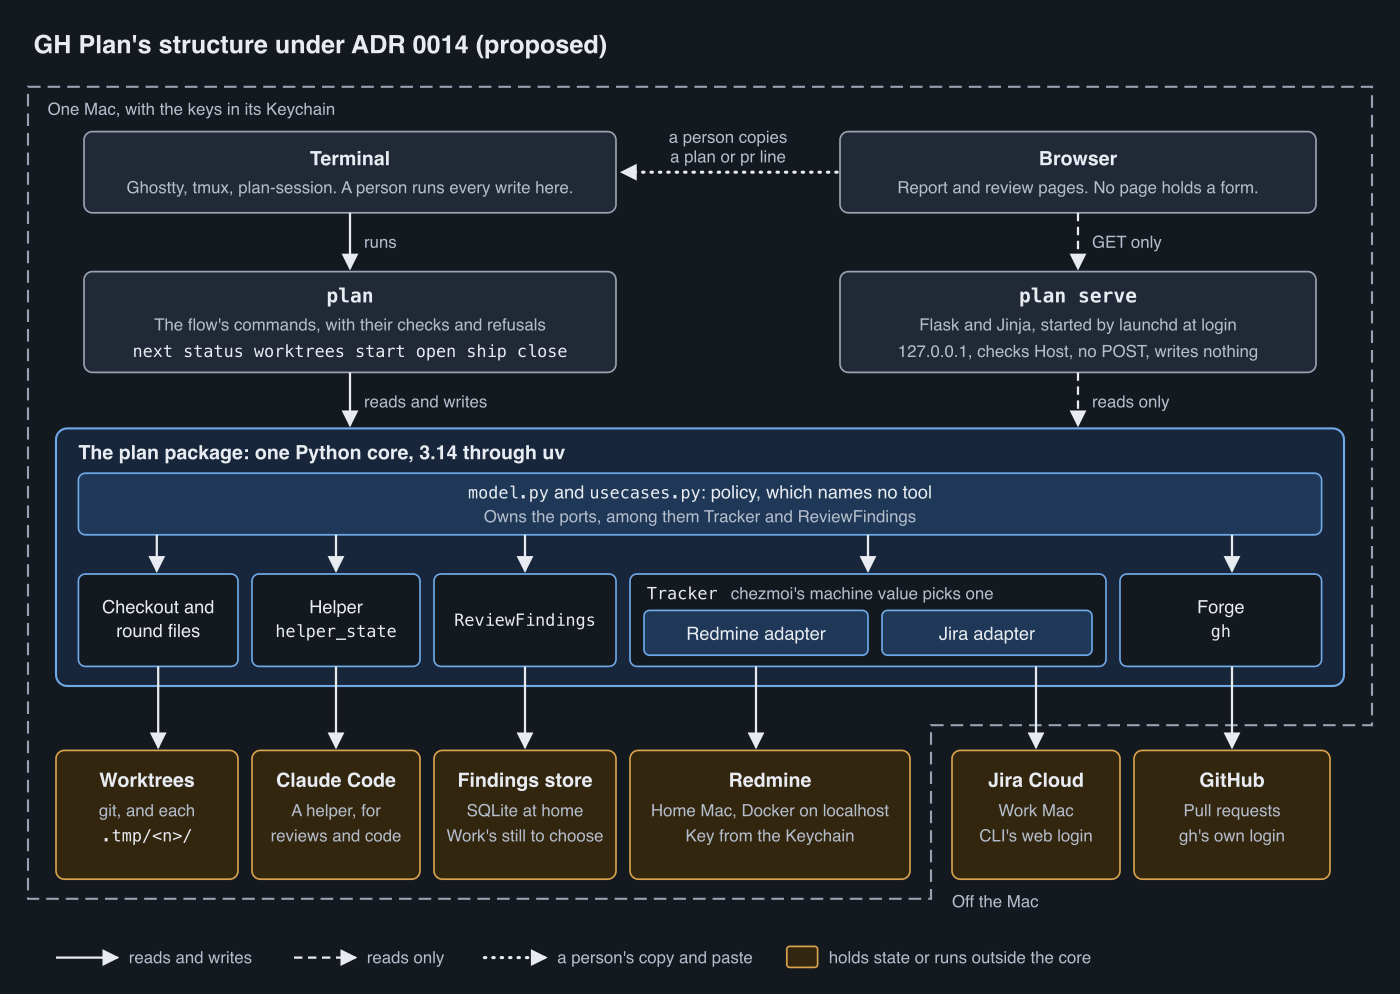
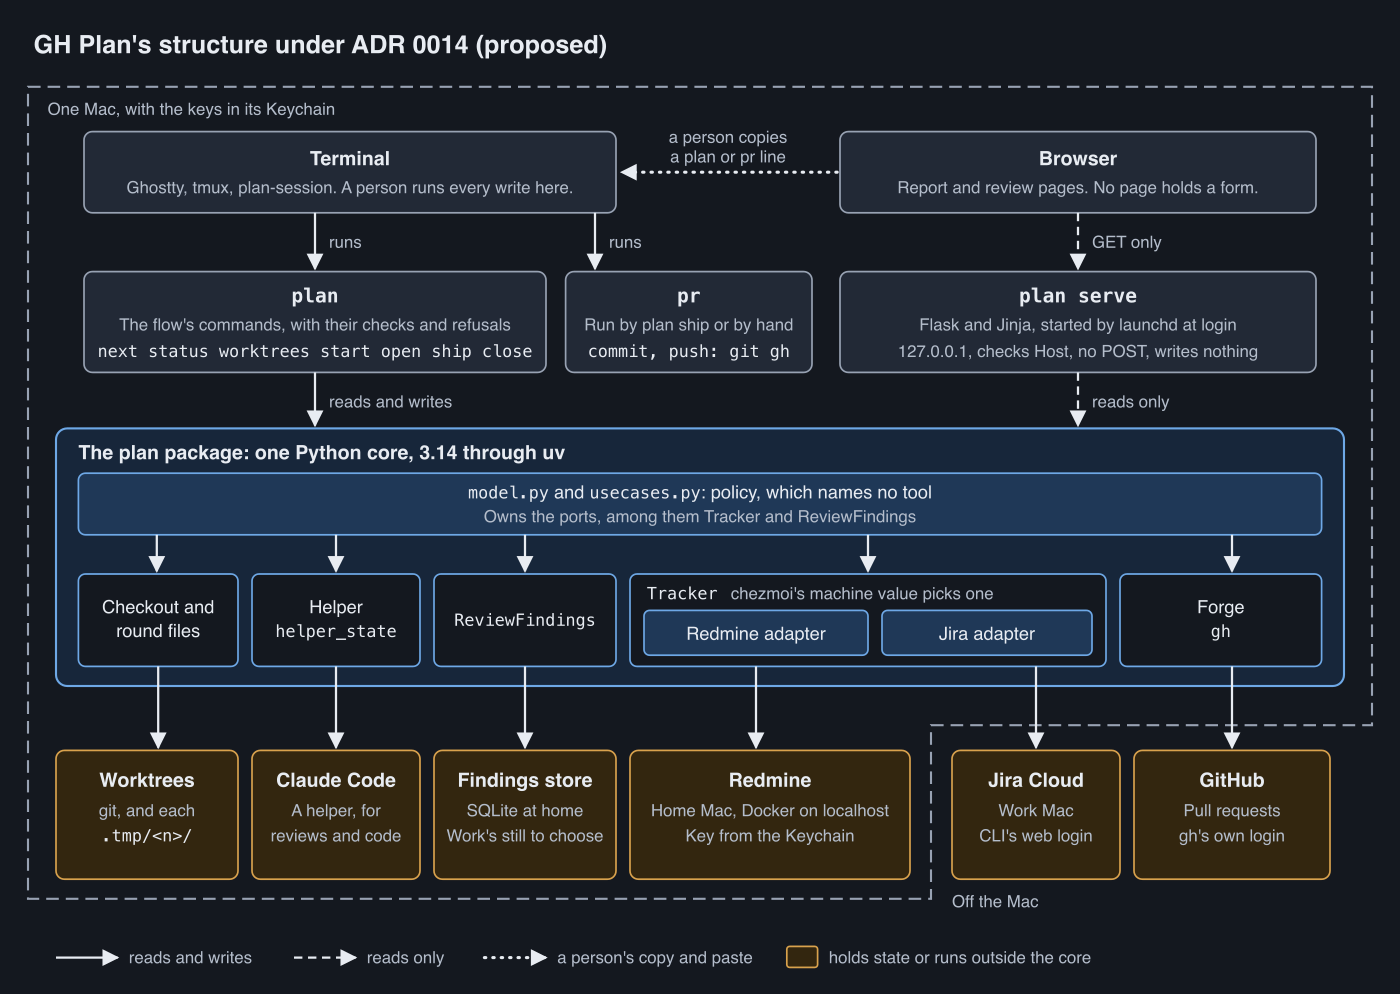
Invariants 1, 2 and 12 name no tool, and pr joins the structure (refs #184)
Round 2 found the ADR's decisions break invariants 1 and 12, that the
structure text and diagram leave out pr, and that PR_STAGED goes with no
word on what it guards. Invariants 1, 2 and 12 now state the property, so
they hold before and after #185; invariant 6 stays #185's. Architecture
§6 says plan and pr write, the diagram gains a pr box that plan ship runs,
and pr keeps refusing a change made after staging.

Assisted-by: Claude:claude-opus-5-5

Changed region(s): [[0.0614, 0.2183, 0.5836, 0.4366], [0.43, 0.2183, 0.4607, 0.2495], [0.3993, 0.2495, 0.43, 0.2807]]

diff --git a/docs/adr/0014-terminal-client.md b/docs/adr/0014-terminal-client.md
@@ -11,8 +11,8 @@
 <a id="status"></a>
 ## 1. Status
 
-Proposed. Changes [architecture §6.3](../architecture.md#platform) and, through #185, invariants 2
-and 6 in [architecture §10](../architecture.md#invariants). Replaces part of
+Proposed. Changes [architecture §6.3](../architecture.md#platform), invariants 1, 2 and 12 in
+[architecture §10](../architecture.md#invariants) and, through #185, invariant 6. Replaces part of
 [design 0007](../design/0007-vscode-frames.md). Once built, it also replaces what
 [design 0005](../design/0005-review-findings.md) says about keeping findings in Redmine, and what
 [ADR 0011](0011-redmine-is-the-tracker.md) says about bare issue numbers and Go. The report server
@@ -100,7 +100,8 @@ GitHub. Neither changes here.
 - **Go and Ship are one step.** The step that renders `.tmp/<n>/report.html` also stages the files,
   so `plan` has no `go` and `pr <n>` is the only step left. Staging goes through a manifest of files
   and directories, never `git add -A`: #189's hand-run `pr` put two tmux logs on `main`. Commands are
-  printed to copy, and commit and push stay in `pr`.
+  printed to copy, and commit and push stay in `pr`, which
+  `plan ship` runs.
 - **The terminal is the client the tool is built for:** Ghostty with tmux on both Macs, `plan-session`,
   `pending` (#178) and `plan`'s views, `plan switch` (#141) and `plan worktrees` (#167).
 - **The extension is off the code path.** It stays in the repo unchanged and unused, and retiring
@@ -167,17 +168,18 @@ GitHub. Neither changes here.
   as well as rendering them. It changes how Redmine behaves, so it is rechecked on each upgrade.
 - The Jira adapter is built on the work machine, from the `Tracker` port and the Redmine adapter.
 - `helper_state`'s mapping still needs one answer: what `claude agents --json` means by `blocked`.
-- Invariant 6 changes: the named modules become the Python core's. Invariant 2 changes in where
-  status lives and what sets it, the tracker and `plan`, and code still reaches the default branch
-  only by PR. Both rewordings are #185's.
-- #186 has no `plan go`, so its guardrail and L3 are rewritten, and `PR_STAGED` goes. #189's scope is
-  settled against this. Architecture §7.2 and its flow diagram, `docs/failure-modes.md`, ADR 0011
-  and ADR 0009 still describe Go and change with #192.
+- Invariant 6 changes: the named modules become the Python core's. That rewording is #185's, and
+  so is any finding on it. Invariants 1, 2 and 12 name the tracker and the findings store, and
+  architecture §6 names the tools that fill them, so they hold before and after #185.
+- #186 has no `plan go`, so its guardrail and L3 are rewritten, and `PR_STAGED` goes, with `pr` still
+  refusing a change made after staging. How it refuses is #192's. #189's scope is settled against
+  this. Architecture §7.2 and its flow diagram, `docs/failure-modes.md`, ADR 0011 and ADR 0009
+  still describe Go and change with #192.
 - Design 0007's frames, window switching (§3.6) and sidebar Worktrees view (§3.8) give way to the
   terminal forms in #141 and #167. Its session state (§3.7) stands, and those views read it.
 - Design 0006 needs changing on its own branch: its §3.2 builds `plan` in Node, where this ADR makes
   it Python. Its mod, if built, calls this core.
-- Architecture §6.3's *Editor integration* row names the terminal client, and invariant 2's "Status
-  lives in Redmine" becomes the tracker. §6.1 and §6.2 follow as #185 and #186 move the code.
+- Architecture §6.3's *Editor integration* row names the terminal client. §6.1 and §6.2 follow as
+  #185 and #186 move the code.
 - The ported logic's tests are written for the core under `uv run pytest`. The `node --test` suites
   stay with the extension.

diff --git a/docs/architecture.md b/docs/architecture.md
@@ -119,8 +119,8 @@ field.
 ## 6. Components
 
 [ADR 0014](adr/0014-terminal-client.md) proposes this structure. `plan` and the report server share
-one Python core, and only `plan` writes. Today the extension and `pr` do that work, as §6.1 and §6.2
-describe, until #185, #186 and #187 build the core. The image is
+one Python core. `plan` and `pr` write, and the report server only reads. Until #185, #186 and #187
+build the core, the extension and `pr` do its work, as §6.1 and §6.2 describe. The image is
 [`diagrams/structure.svg`](diagrams/structure.svg).
 
 ![plan and the read-only report server share one Python core, whose adapters reach worktrees, Claude Code, the findings store, Redmine or Jira, and GitHub](diagrams/structure.svg)
@@ -372,14 +372,14 @@ The Findings tab is at `/projects/<identifier>/review_findings`
 <a id="invariants"></a>
 ## 10. Invariants
 
-1. Redmine is the tracker. Its database holds every issue, with its status and history, outside
-   the repos it plans, and nothing tracker-related is committed in them
+1. Each machine has one tracker. It holds every issue, with its status and history, outside the
+   repos it plans, and nothing tracker-related is committed in them
    ([ADR 0011](adr/0011-redmine-is-the-tracker.md)).
 2. The default branch carries the code, and every change reaches it through a pull request whose
-   `assess` check passed and whose review threads are resolved. An issue's status lives in Redmine:
-   the extension's Start and Done set it, and a `fixes #<n>` commit closes the issue when Redmine
-   fetches it (§7.4). A Done tick is a verification record, not status: it is recorded in the PR's
-   body, and status in Redmine.
+   `assess` check passed and whose review threads are resolved. An issue's status lives in the
+   tracker. A person's action sets it, apart from the tracker's own close on a `fixes` keyword
+   (§7.4). A Done tick is a verification record, not status: it is recorded in the PR's body, and
+   status in the tracker.
 3. Retired with the tool's `plan:` commits ([ADR 0011](adr/0011-redmine-is-the-tracker.md)), so the
    invariants after it keep their numbers.
 4. An issue's start date is written once: Start sets it only when the issue has none (§7.1).
@@ -398,7 +398,7 @@ The Findings tab is at `/projects/<identifier>/review_findings`
     [`C3`](requirements.md)).
 11. Retired while tracked time is paused ([ADR 0006](adr/0006-tracked-time.md)), so the invariants
     keep their numbers.
-12. An issue's review is a ledger. The review findings plugin only adds rows: a round, a finding
+12. An issue's review is a ledger. Its store only adds rows: a round, a finding
     raised, an answer and a check of a fix are each a row, and none is changed or deleted, except
     that a rule rename relabels the rows it names. A finding's status is never stored; the read
     API works it out from the finding's latest row

diff --git a/CLAUDE.md b/CLAUDE.md
@@ -111,7 +111,7 @@ settings: what this repo needs is here or in `.claude/`.
 - **Invariants** ([architecture §10](docs/architecture.md#invariants)); these two break most
   easily:
   - **2.** The default branch carries the code, and everything reaches it by PR. Status lives in
-    Redmine.
+    the tracker.
   - **6.** Only the named modules, and Ship's `pr` task, spawn a process or open a connection; every
     Redmine call goes through `vscode/redmine.js`.
 
